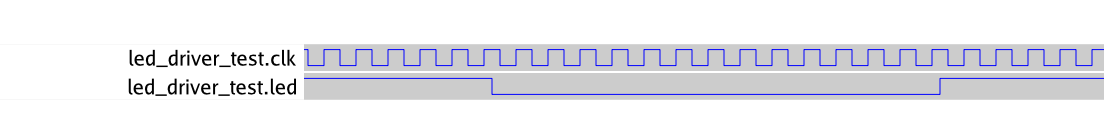
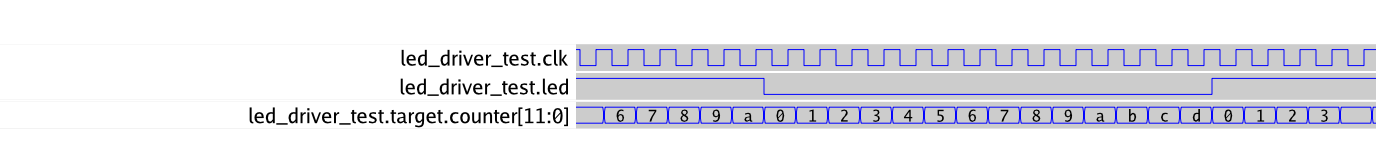
Add support for multibit signals in --wavy output format

Changed region(s): [[0.0924, 0.3103, 1.0, 0.9052]]

diff --git a/twave.go b/twave.go
@@ -8,6 +8,7 @@ import (
 	"flag"
 	"fmt"
 	"log"
+	"math/big"
 	"os"
 	"sort"
 	"strconv"
@@ -183,6 +184,12 @@ func (s *ParserState) DumpStateNow() {
 				continue
 			}
 			ar := s.Waves[c.Label]
+			if n := len(ar); n > 0 {
+				// drop duplicates
+				if ar[n-1].Value == c.Value {
+					continue
+				}
+			}
 			s.Waves[c.Label] = append(ar, Valued{
 				Now:   s.Now,
 				Value: c.Value,
@@ -332,6 +339,8 @@ func main() {
 			if !ok {
 				continue
 			}
+			var chunks []string
+			var last string
 			for j, i := 0, 0; i < state.Now; i += state.Shortest {
 				if i < *start && *start != -1 {
 					continue
@@ -342,8 +351,10 @@ func main() {
 				if vs[j].Now < i && j < len(vs)-1 && vs[j+1].Now == i {
 					j++
 				}
-				if sig.Bits == 1 {
-					v := vs[j].Value
+				v := vs[j].Value
+				if v == "z" || v == "x" {
+					fmt.Print(v)
+				} else if sig.Bits == 1 {
 					switch v {
 					case "0":
 						fmt.Print("_")
@@ -352,11 +363,29 @@ func main() {
 					default:
 						fmt.Print(v)
 					}
+					last = v
 				} else {
-					fmt.Print("x")
+					n, ok := new(big.Int).SetString(v, 2)
+					if !ok {
+						log.Fatalf("unable to parse %q", v)
+					}
+					t := n.Text(16)
+					if (j+1 < len(vs) && i+state.Shortest >= vs[j+1].Now) || (i+state.Shortest > *end && *end != -1) {
+						chunks = append(chunks, t)
+						fmt.Print(">")
+					} else if last == t {
+						fmt.Print("-")
+					} else {
+						fmt.Print("<")
+					}
+					last = t
 				}
 			}
-			fmt.Printf(" %s\n", s)
+			if len(chunks) != 0 {
+				fmt.Printf(" %s %s\n", s, strings.Join(chunks, ","))
+			} else {
+				fmt.Printf(" %s\n", s)
+			}
 		}
 	} else if *rawTime {
 		fmt.Printf("minimum period: %d\n", state.Shortest)

diff --git a/README.md b/README.md
@@ -107,8 +107,9 @@ $ ./twave --file=v/dump.vcd --start=29600 --end=30000
      2022-12-31 14:24:11.000003000000 1 0 0 1 000100101011 000000001101 000000010011
 ```
 
-Partial support for [`wavy`](https://zappem.net/pub/project/wavy/)
-text format is imlpemented in `twave`. To convert the `v/dump.vcd` file to a PNG image:
+Support for [`wavy`](https://zappem.net/pub/project/wavy/) text format
+is imlpemented in `twave`. To convert the `v/dump.vcd` file to a PNG
+image:
 
 ```
 $ ./twave --file=v/dump.vcd --wavy > led.wvy
@@ -132,7 +133,7 @@ $ ~/go/bin/wavy --input led-trunc.wvy --output led-trunc.png
 
 ## TODOs
 
-- the `--wavy` output format does not support multibit signals yet.
+- Nothing planned.
 
 ## License info
 
